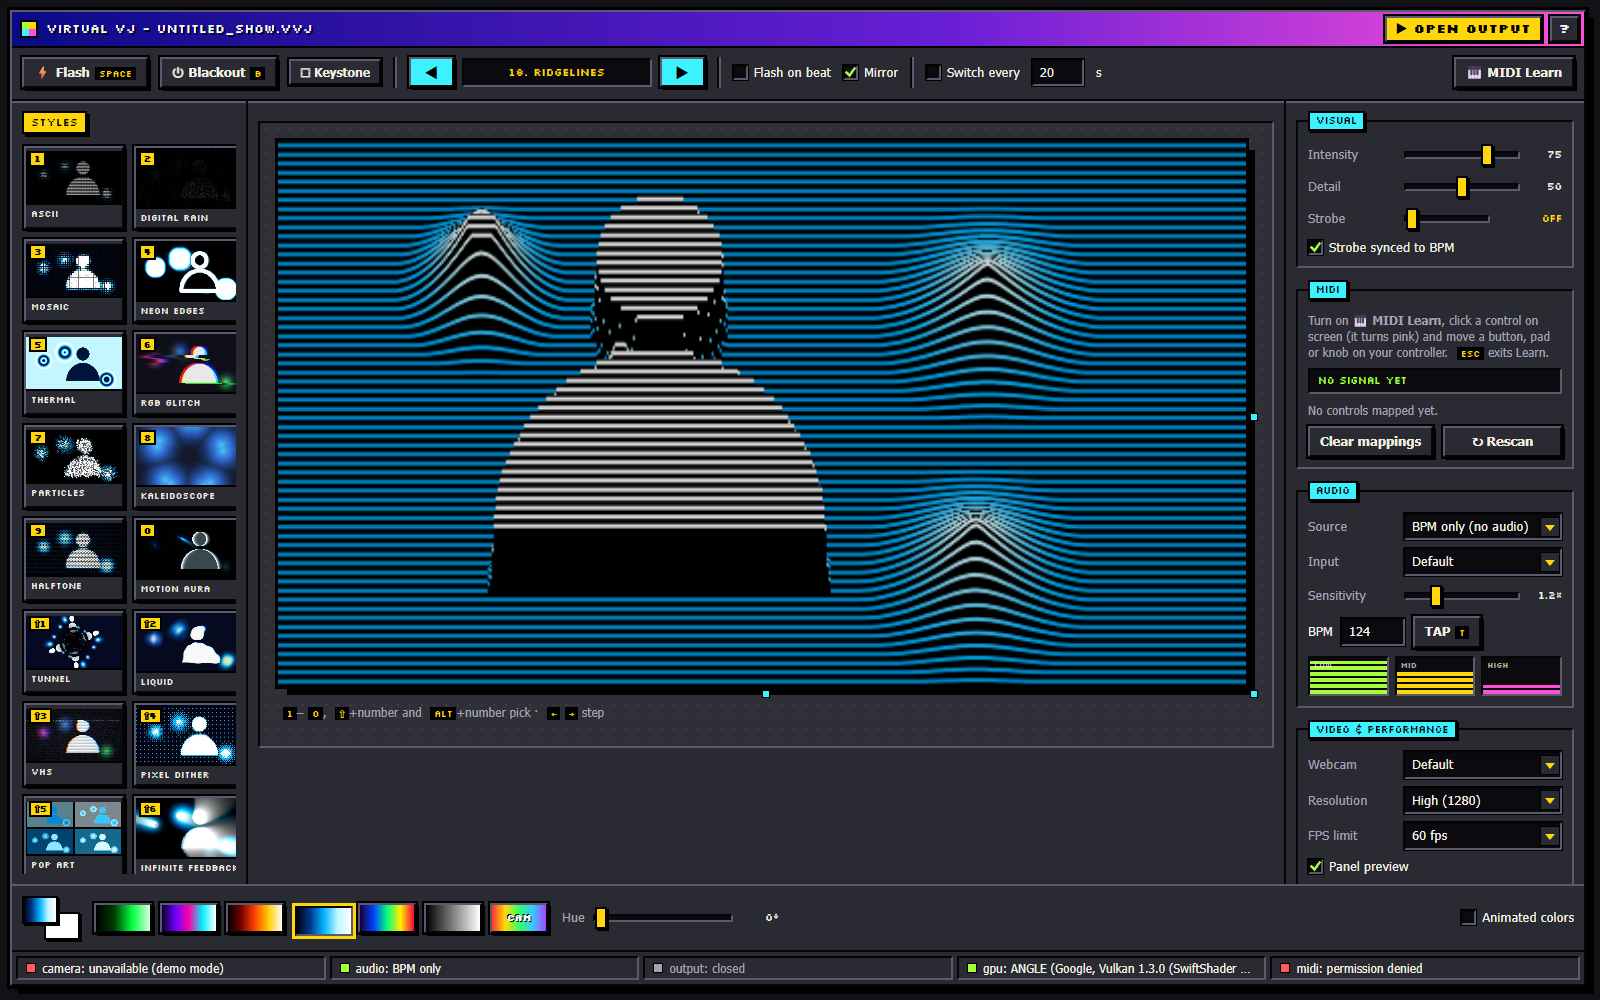
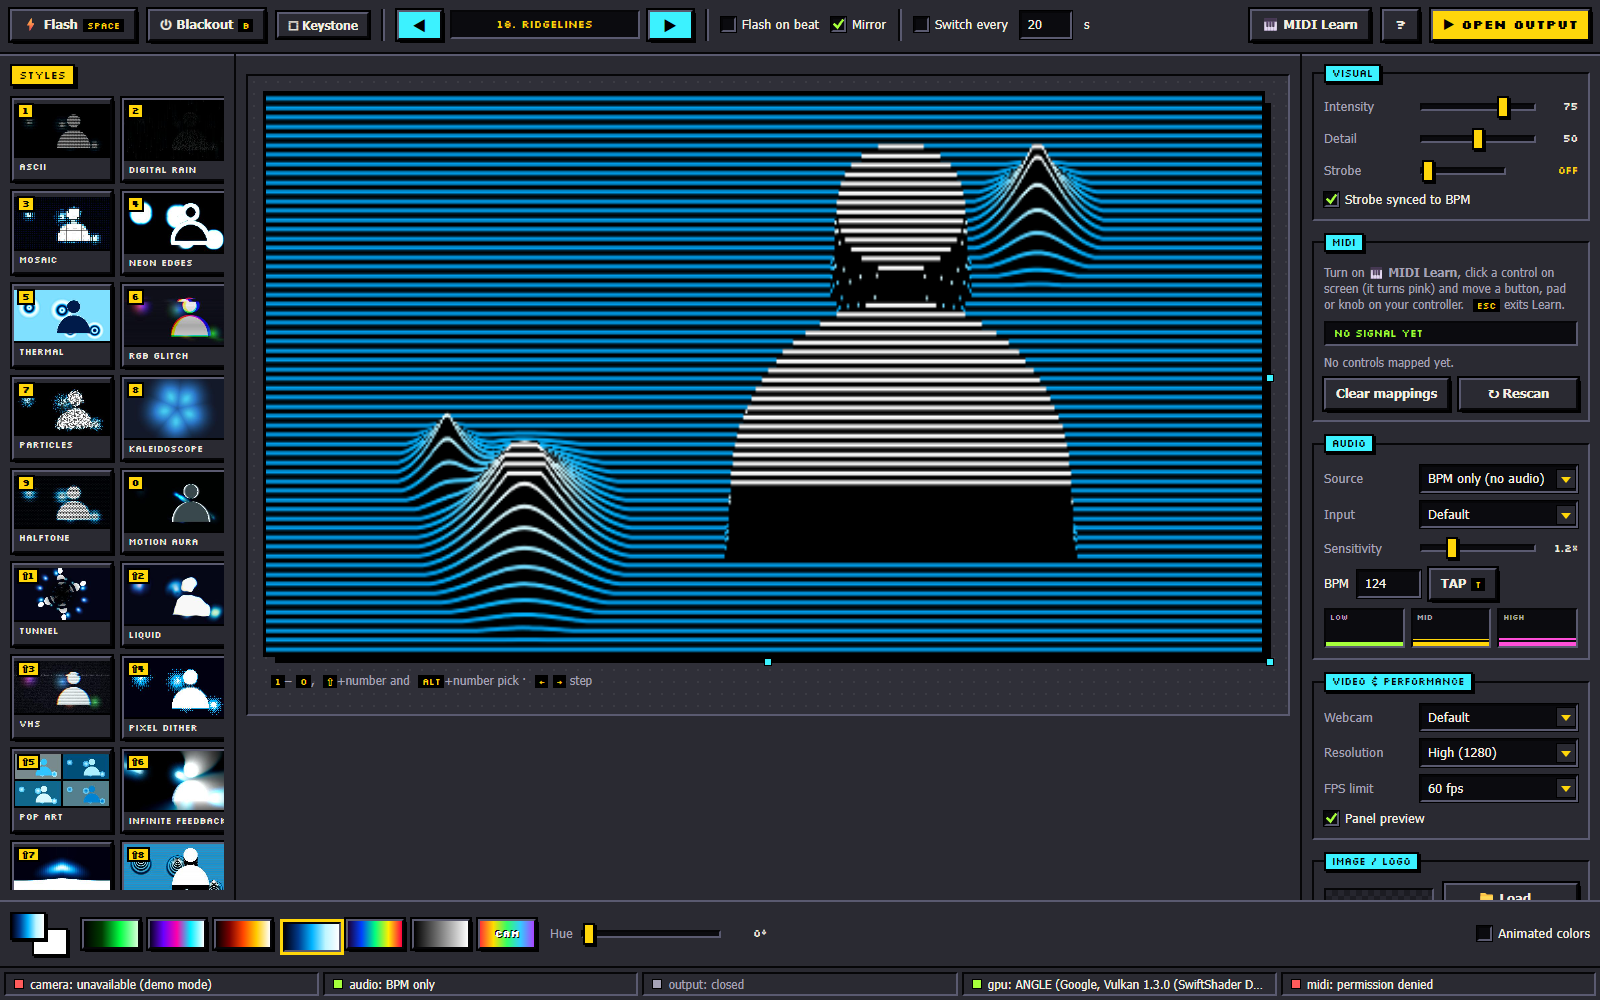
Painel em tela cheia, sem barra de título
Remove a barra de título e a moldura de janela do painel, que passa a
ocupar a tela inteira. "▶ Open output" e "?" vão para a direita da barra
de ferramentas. Captura do README e LEIA-ME atualizados.

diff --git a/index.html b/index.html
@@ -55,9 +55,8 @@ input[type=range]::-moz-range-thumb{width:10px;height:20px;background:var(--y);b
 .ov.flash{background:#fff}.ov.dark{background:#000}
 
 /* ===== janela ===== */
-#app{height:100%;padding:10px 14px 14px 10px}
-.window{height:100%;display:flex;flex-direction:column;background:var(--face);border:2px solid;border-color:var(--hi) var(--lo) var(--lo) var(--hi);
-  outline:3px solid #000;box-shadow:8px 8px 0 #000}
+#app{height:100%}
+.window{height:100%;display:flex;flex-direction:column;background:var(--face)}
 .title{display:flex;align-items:center;gap:8px;padding:4px 5px 4px 8px;background:linear-gradient(90deg,#0a0a86,#6a1fd6 60%,#ff4fd8);color:#fff;
   font-family:var(--px);font-size:13px;border-bottom:2px solid #000}
 .title .ic{width:18px;height:18px;flex:none;background:conic-gradient(var(--y) 0 25%,var(--p) 0 50%,var(--c) 0 75%,var(--g) 0);border:2px solid #000}
@@ -69,6 +68,7 @@ input[type=range]::-moz-range-thumb{width:10px;height:20px;background:var(--y);b
 .sep{width:4px;align-self:stretch;border-left:2px solid var(--lo);border-right:2px solid var(--hi)}
 .toolbar label{display:flex;align-items:center;gap:6px;cursor:pointer;white-space:nowrap}
 .toolbar input[type=number]{width:52px}
+.toolbar .q{font-family:var(--px);padding:5px 11px}
 
 .body{flex:1;display:grid;grid-template-columns:236px minmax(0,1fr) 300px;min-height:0}
 .pane{display:flex;flex-direction:column;min-height:0;padding:10px}
@@ -192,7 +192,7 @@ body.dropping .window{outline-color:var(--y);outline-style:dashed}
   .props{grid-column:1/-1;border-left:0;border-top:2px solid var(--lo);display:grid;grid-template-columns:repeat(auto-fill,minmax(280px,1fr));align-items:start}
 }
 @media(max-width:760px){
-  #app{padding:6px 10px 10px 6px}
+  #app{padding:0}
   .body{grid-template-columns:1fr}
   .toolbox{border-right:0} #grid{grid-template-columns:repeat(auto-fill,minmax(120px,1fr));max-height:300px}
   .toolbox{order:2}
@@ -219,12 +219,6 @@ body.out:fullscreen,body.out :fullscreen{cursor:none}
 <body>
 
 <div id="app"><div class="window">
-  <div class="title">
-    <span class="ic"></span><span class="name">Virtual VJ - untitled_show.vvj</span>
-    <button id="btnOut" class="primary">▶ Open output</button>
-    <button id="btnHelp" class="q" title="Shortcuts">?</button>
-  </div>
-
   <div class="toolbar">
     <button id="btnFlash" data-midi="flash" data-label="Flash">⚡ Flash<kbd>Space</kbd></button>
     <button id="btnBlack" data-midi="blackout" data-label="Blackout">⏻ Blackout<kbd>B</kbd></button>
@@ -241,6 +235,8 @@ body.out:fullscreen,body.out :fullscreen{cursor:none}
     <span class="sep"></span>
     <label><input type="checkbox" id="auto" data-midi="auto" data-label="Auto switch"> Switch every</label><input type="number" id="autoSec" min="3" max="300"> s
     <button id="btnLearn" class="learn-btn" title="Toggle MIDI Learn">🎹 MIDI Learn</button>
+    <button id="btnHelp" class="q" title="Shortcuts">?</button>
+    <button id="btnOut" class="primary">▶ Open output</button>
   </div>
 
   <div class="body">

diff --git a/LEIA-ME.md b/LEIA-ME.md
@@ -8,7 +8,7 @@ Visuais ao vivo para DJ, gerados a partir da webcam e reagindo ao som. Não prec
 
 1. Conecte o projetor como **tela estendida** (Win + P → *Estender*) e ligue a webcam externa.
 2. Dê dois cliques em **`Iniciar Virtual VJ.bat`**. O painel de controle abre no notebook.
-3. Clique em **▶ Open output** (na barra de título). A janela de saída tenta ir sozinha para a segunda tela. Se não for, arraste-a para o projetor.
+3. Clique em **▶ Open output** (no canto direito da barra de ferramentas). A janela de saída tenta ir sozinha para a segunda tela. Se não for, arraste-a para o projetor.
 4. **Clique uma vez na janela do projetor** (ou aperte `F`) para deixá-la em tela cheia.
 5. Em *Video & performance*, escolha a webcam externa. Em *Audio*, escolha o microfone ou a entrada de linha (line-in) que capta o som.
 
@@ -18,7 +18,7 @@ Visuais ao vivo para DJ, gerados a partir da webcam e reagindo ao som. Não prec
 - **Centro**: a prévia do que está no projetor.
 - **Direita**: os ajustes *Visual*, *MIDI*, *Audio*, *Video & performance* e *Image / logo*.
 - **Embaixo**: a caixa de cores com as paletas, o controle *Hue* e a barra de status (camera, audio, output, gpu, midi).
-- O botão **?** na barra de título mostra os atalhos.
+- O botão **?** (ao lado do Open output) mostra os atalhos.
 
 ## Atalhos (no painel)
 
